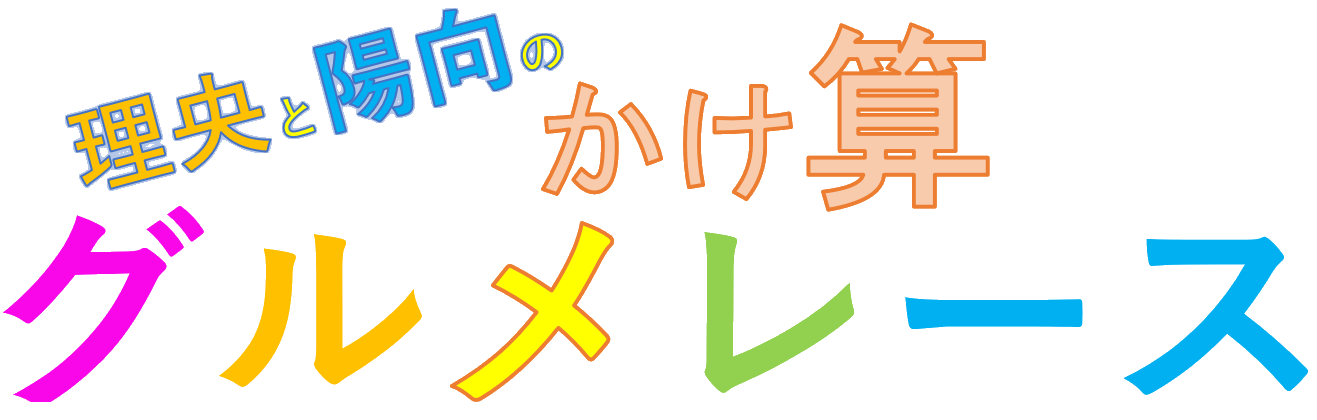
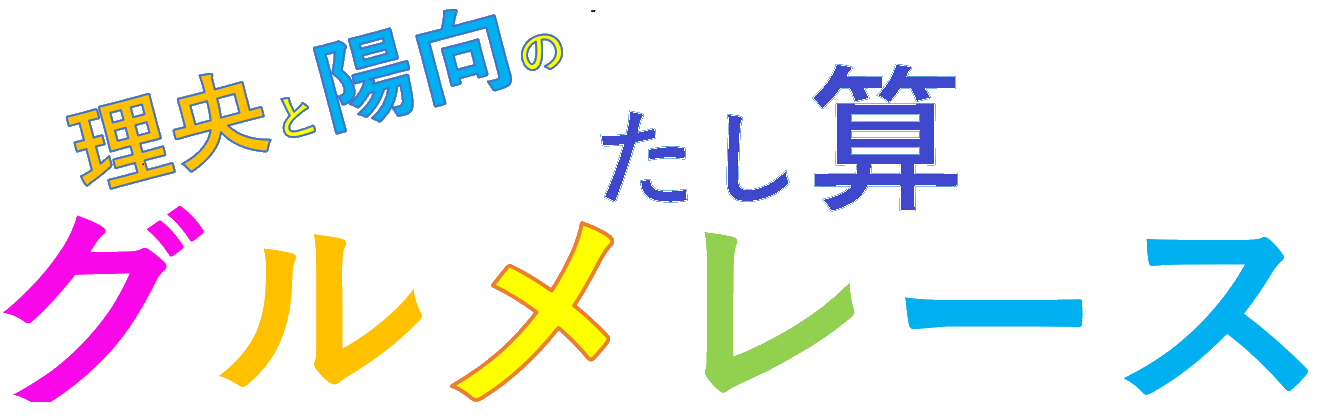
mod

diff --git a/index.js b/index.js
@@ -54,6 +54,8 @@ var event = new function(){
 	var 何問目 = 0;
 	var 一歩距離 = 0;
 	
+	var 足し算桁数 = 1;
+	
 	var カービ移動回数 = 0;
 	var デデデ移動回数 = 0;
 	
@@ -82,7 +84,8 @@ var event = new function(){
 	 */
 	this.easy = function(){
 		event.startMusic();
-		一問時間 = 10 * 1000;
+		一問時間 = 8 * 1000;
+		足し算桁数 = 1;
 		event.countDown();
 	};
 	
@@ -91,7 +94,8 @@ var event = new function(){
 	 */
 	this.normal = function(){
 		event.startMusic();
-		一問時間 = 6 * 1000;
+		一問時間 = 5 * 1000;
+		足し算桁数 = 1;
 		event.countDown();
 	};
 
@@ -100,7 +104,8 @@ var event = new function(){
 	 */
 	this.hard = function(){
 		event.startMusic();
-		一問時間 = 3 * 1000;
+		一問時間 = 5 * 1000;
+		足し算桁数 = 2;
 		event.countDown();
 	};
 	
@@ -109,7 +114,8 @@ var event = new function(){
 	 */
 	this.veryhard = function(){
 		event.startMusic();
-		一問時間 = 1.2 * 1000;
+		一問時間 = 2 * 1000;
+		足し算桁数 = 2;
 		event.countDown();
 	};
 	
@@ -161,8 +167,8 @@ var event = new function(){
 
 		何問目++;
 		
-		var num1 = Math.floor(Math.random() * (10));
-		var num2 = Math.floor(Math.random() * (10));
+		var num1 = Math.floor(Math.random() * (10 ** 足し算桁数));
+		var num2 = Math.floor(Math.random() * (10 ** 足し算桁数));
 		var answer = num1 + num2;
 		
 		$('#game-text').html(num1 + " ＋ " + num2);
